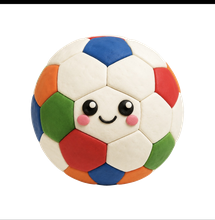
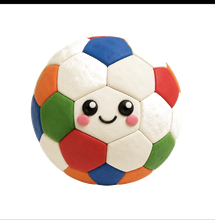
Atualiza a atividade

diff --git a/index.html b/index.html
@@ -1707,7 +1707,7 @@ function sil(w){ return PAL[w] ? PAL[w][1] : [w.toUpperCase()]; }
    que no repositório já estava limpa. Não adianta consertar o desenho se a
    criança continua recebendo o antigo: subir o VIMG obriga o navegador a buscar
    tudo de novo. REGRA: mexeu em figura, sobe o VIMG no mesmo commit. */
-var VIMG = 1;
+var VIMG = 2;
 /* ⚠⚠ `draggable="false"` NÃO É DETALHE (set/2026, três horas de caça).
    Toda imagem é arrastável de fábrica no navegador. Quando a criança apertava
    a figura e puxava, o Chrome começava o SEU arrasto nativo do `<img>` e
